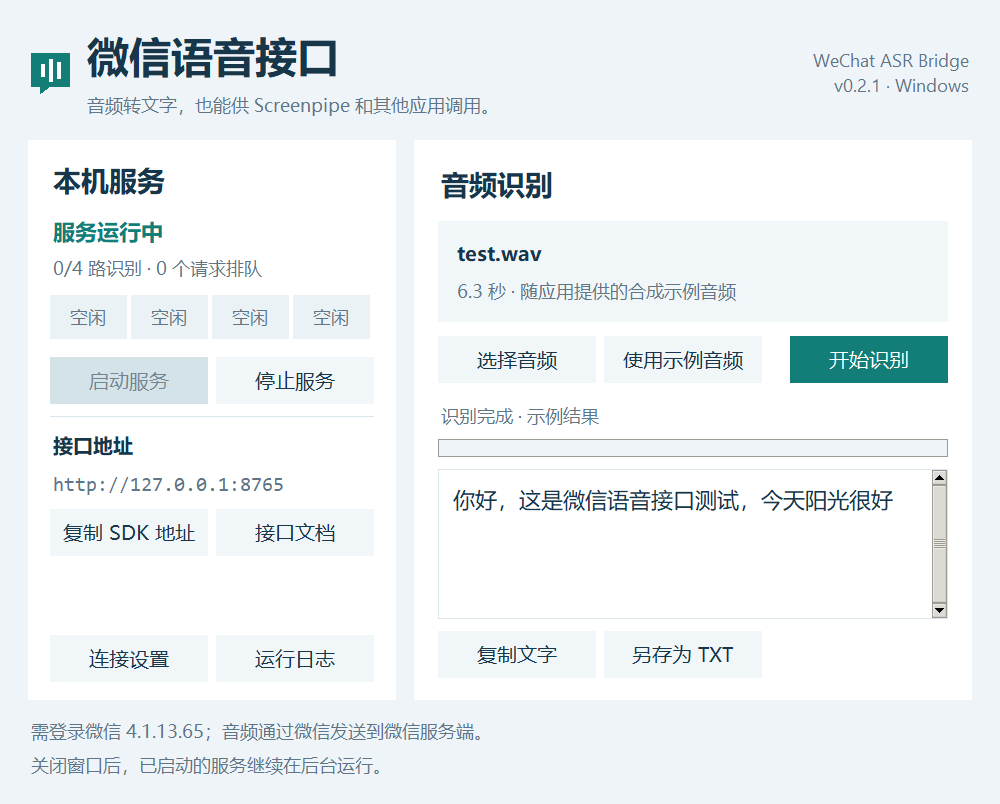
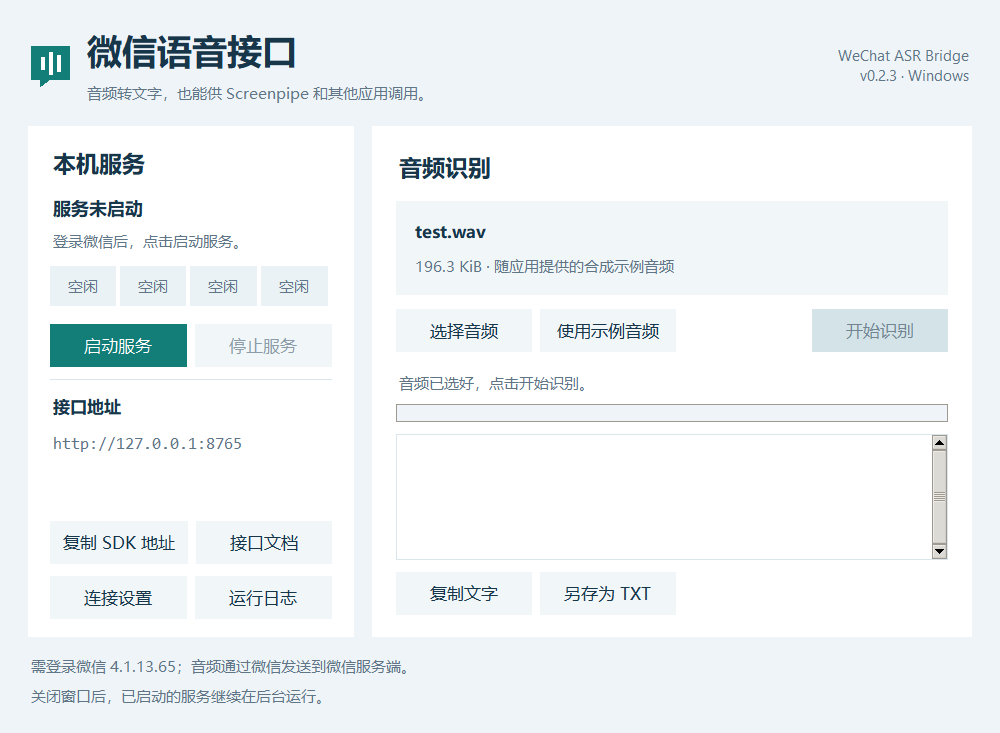
fix: keep lower desktop action rows compact

diff --git a/tests/test_desktop_layout.py b/tests/test_desktop_layout.py
@@ -31,9 +31,17 @@ class DesktopLayoutTests(unittest.TestCase):
                     app._update_buttons()
                     root.update_idletasks()
                     width,height=root.minsize()
-                    root.geometry(f'{width}x{height}')
-                    root.update_idletasks()
-                    inspect_layout(app)
+                    left=app.settings_button.master.master
+                    link_row=next(child for child in left.winfo_children()
+                                  if any(isinstance(button,app.ttk.Button) and button.cget('text')=='复制 SDK 地址'
+                                         for button in child.winfo_children()))
+                    for window_width,window_height in ((width,height),(max(width,1080),height+300)):
+                        root.geometry(f'{window_width}x{window_height}')
+                        root.update_idletasks()
+                        inspect_layout(app)
+                        gap=app.settings_button.winfo_rooty()-(link_row.winfo_rooty()+link_row.winfo_height())
+                        self.assertGreaterEqual(gap,0)
+                        self.assertLessEqual(gap,24,'The lower two button rows spread apart when the window grows')
                     app.closed=True
                 finally:
                     for timer in root.tk.call('after','info'):

diff --git a/desktop.py b/desktop.py
@@ -113,7 +113,7 @@ class DesktopApplication:
         left = tk.Frame(body, bg=c['paper'], padx=22, pady=18)
         left.grid(row=0, column=0, sticky='nsew', padx=(0, 18))
         left.columnconfigure(0, weight=1)
-        left.rowconfigure(9, weight=1)
+        left.rowconfigure(8, weight=1)
         right = tk.Frame(body, bg=c['paper'], padx=24, pady=22)
         right.grid(row=0, column=1, sticky='nsew')
         self._label(left, '本机服务', 14, bold=True).grid(row=0, column=0, sticky='w')
@@ -139,7 +139,7 @@ class DesktopApplication:
         self._label(left, '接口地址', 10, bold=True).grid(row=6, column=0, sticky='w')
         self._label(left, '', 10, variable=self.endpoint, mono=True).grid(row=7, column=0, sticky='w', pady=(8, 10))
         links = tk.Frame(left, bg=c['paper'])
-        links.grid(row=8, column=0, sticky='ew')
+        links.grid(row=8, column=0, sticky='sew')
         ttk.Button(links, text='复制 SDK 地址', command=self._copy_endpoint).pack(side='left', padx=(0, 8))
         ttk.Button(links, text='接口文档', command=self._open_docs).pack(side='left')
         self.port_box = None

diff --git a/packaging/render_preview.py b/packaging/render_preview.py
@@ -38,6 +38,7 @@ def main():
     app._show_health(app.controller, (state, state is not None))
     if args.state in ('result', 'error') or args.sample:
         app._sample()
+        app.file_detail.set('196.3 KiB · 随应用提供的合成示例音频')
     if args.state in ('result', 'error'):
         app.file_detail.set('6.3 秒 · 随应用提供的合成示例音频')
     if args.state == 'result':

diff --git a/desktop_service.py b/desktop_service.py
@@ -15,7 +15,7 @@ from app_paths import resource_dir, runtime_dir
 from desktop_settings import saved_port, save_port, saved_api_key, save_settings
 
 APP_BACKEND = 'wechat-4.1.13.65'
-VERSION = '0.2.2'
+VERSION = '0.2.3'
 MAX_UPLOAD = 25 * 1024 * 1024
 NO_WINDOW = getattr(subprocess, 'CREATE_NO_WINDOW', 0)
 

diff --git a/docs/PORTABLE.md b/docs/PORTABLE.md
@@ -4,7 +4,7 @@
 
 ## 开始使用
 
-1. 下载 `WeChatASRBridge-0.2.2-windows-x64-portable.zip`。
+1. 下载 `WeChatASRBridge-0.2.3-windows-x64-portable.zip`。
 2. 把整个 ZIP 解压到任意普通文件夹。保留 `_internal` 文件夹，不能只移动 EXE。
 3. 登录微信，双击 `WeChatASRBridge.exe`。
 4. 点击「启动服务」。如果本机已有兼容桥接服务，窗口会直接连接它。
@@ -41,6 +41,7 @@
 - 显示会话清理失败时，退出微信后重新登录，再启动服务。
 - 显示微信连接已中断时，退出微信后重新登录；清理状态未知的同一微信进程会暂停调用。
 - v0.2.2 的回调入口在脚本卸载后仍有效；原生会话取消后等待任务释放引用再析构，避免仅靠固定延时判断清理完成。
+- v0.2.3 将左下角四个按钮的两排保持紧凑，拉高窗口不会再扩大两排间距，并包含 v0.2.2 的原生生命周期修复。
 - 实验桥接使用微信原生调用。当前验证覆盖并发、长音频和正常停止，尚未进行长期持续并发压力测试。
 
 项目：https://github.com/kuxiaowo/wechat-asr-bridge

diff --git a/README.md b/README.md
@@ -195,6 +195,6 @@ powershell -NoProfile -ExecutionPolicy Bypass -File .\stop.ps1 -Port 8766
 powershell -NoProfile -ExecutionPolicy Bypass -File .\build.ps1
 ```
 
-输出为 `dist/WeChatASRBridge-0.2.2-windows-x64-portable.zip` 和 `SHA256SUMS.txt`。构建使用 PyInstaller 文件夹模式，将窗口、API 服务、原生 agent 和 FFmpeg 打包在一起；不会包含微信程序、账号数据或 `.runtime/`。GitHub Actions 的 `Windows portable release` 工作流也可构建并上传 ZIP。
+输出为 `dist/WeChatASRBridge-0.2.3-windows-x64-portable.zip` 和 `SHA256SUMS.txt`。构建使用 PyInstaller 文件夹模式，将窗口、API 服务、原生 agent 和 FFmpeg 打包在一起；不会包含微信程序、账号数据或 `.runtime/`。GitHub Actions 的 `Windows portable release` 工作流也可构建并上传 ZIP。
 
 协议格式参考：[OpenAI 官方 Create transcription 文档](https://developers.openai.com/api/reference/resources/audio/subresources/transcriptions/methods/create)。项目代码采用 [MIT](LICENSE) 许可；第三方依赖和微信客户端保留各自的许可证及条款。
